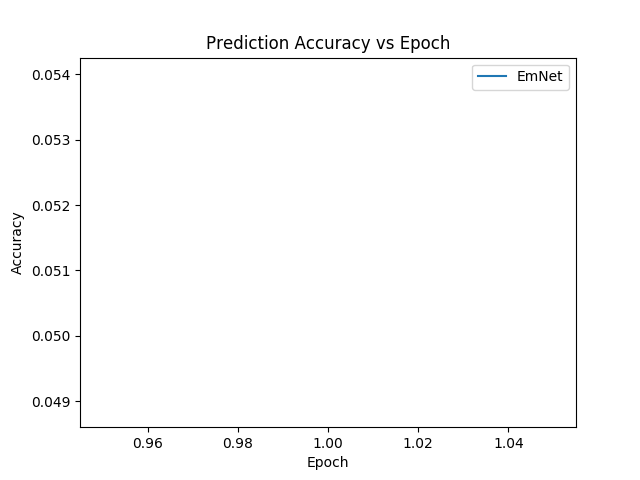
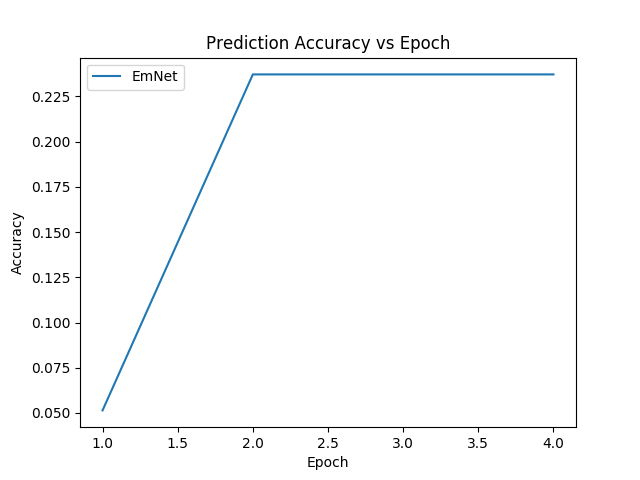
face detect code

diff --git a/code_version1/em_model.py b/code_version1/em_model.py
@@ -15,27 +15,35 @@ class EmNet(nn.Module):
     # classes: list of target classes
     def __init__(self, classes):
         super(EmNet, self).__init__()
-        self.conv1 = nn.Conv2d(3, 64, 5)
-        self.conv2 = nn.Conv2d(64, 64, 5)
-        self.conv3 = nn.Conv2d(64, 128, 4)
-        self.pool = nn.MaxPool2d(3, 2)
-        self.dropout = nn.Dropout(0.3)
-        self.fc1 = nn.Linear(128 * 49 * 49, 3072)
-        self.fc2 = nn.Linear(3072, len(classes))
+        self.features = nn.Sequential(
+            nn.Conv2d(1, 64, kernel_size=5),
+            nn.ReLU(inplace=True),
+            nn.MaxPool2d(kernel_size=3, stride=2),
+            nn.Conv2d(64, 64, kernel_size=5),
+            nn.ReLU(inplace=True),
+            nn.MaxPool2d(kernel_size=3, stride=2),
+            nn.Conv2d(64, 128, kernel_size=4),
+            nn.ReLU(inplace=True),
+            nn.MaxPool2d(kernel_size=3, stride=2),
+        )
+
+        self.classifier = nn.Sequential(
+            nn.Dropout(),
+            nn.Linear(128 * 28 * 28, 3072),
+            nn.ReLU(inplace=True),
+            nn.Linear(3072, len(classes)),
+        )
 
     # Forward process
     # x is a 48x48 2d gray scale image
-    def forward(self, x):
-        x = F.relu(self.conv1(x))
-        x = self.pool(x)
-        x = F.relu(self.conv2(x))
-        x = self.pool(x)
-        x = F.relu(self.conv3(x))
-        # print(x.size())
-        x = x.view(x.size(0), 128 * 49 * 49)
-        x = self.dropout(x)
-        x = F.relu(self.fc1(x))
-        x = F.softmax(self.fc2(x), dim = 1)
+    def forward(self, y):
+        print(y)
+        x = torch.tensor(y)
+        x = self.features(x)
+        print(x.size())
+        x = x.view(x.size(0), 128 * 28 * 28)
+        x = self.classifier(x)
+        print(x)
         return x
 
 class EmModel:
@@ -48,32 +56,26 @@ class EmModel:
 
         # Initialize training parameters
         self.epochs = 50
-        self.batch_size = 1
-        self.learn_rate = 0.01
+        self.batch_size = 50
+        self.learn_rate = 0.1
         self.loss_function = nn.CrossEntropyLoss()
-        self.optimizer = torch.optim.Adam(self.net.parameters(), lr=self.learn_rate)
+        self.optimizer = torch.optim.Adam(self.net.classifier.parameters(), lr=self.learn_rate)
 
         # Load data set
         trainDir = os.path.join(dataDir, 'train')
 
-        normalize = transforms.Normalize(mean=[0.485, 0.456, 0.406], std=[0.229, 0.224, 0.225])
+        normalize = transforms.Normalize((0.5, 0.5, 0.5), (0.5, 0.5, 0.5))
         train_dataset = datasets.ImageFolder(
             trainDir,
             transforms.Compose([
-                transforms.RandomResizedCrop(224),
-                transforms.RandomHorizontalFlip(),
+                transforms.Grayscale(),
+                transforms.CenterCrop((100, 100)),
                 transforms.ToTensor(),
                 normalize,
         ]))
         
-        self.train_loader = torch.utils.data.DataLoader(train_dataset, batch_size = self.batch_size, shuffle=True, num_workers = 1)
+        self.train_loader = torch.utils.data.DataLoader(train_dataset, batch_size = self.batch_size, shuffle=True, num_workers = 0)
         print(train_dataset.classes)
-
-        for i, data in enumerate(self.train_loader, 0):
-            # get the inputs
-            inputs, labels = data
-            print(labels)
-            break
 
         self.check_point_file = os.path.join(modelDir, 'checkpoint.tar')
         if os.path.isfile(self.check_point_file):
@@ -110,7 +112,11 @@ class EmModel:
     # Return the index of predicted class
     def predict(self, inputs):
         outputs = self.net(inputs)
-        label, prob = outputs.max(1)
+        prob, label = torch.max(outputs, 1)
+        '''
+        print('prob', prob)
+        print('label', label)
+        '''
         '''
         # If probability is lower than 0.5
         # Predict it as neutral
@@ -140,8 +146,10 @@ class EmModel:
             for i, data in enumerate(self.train_loader, 0):
                 inputs, labels = data
                 labels = labels.type(torch.FloatTensor)
+                # print(labels)
                 pred = self.predict(inputs)
                 pred = pred.type(torch.FloatTensor)
+                # print(pred)
                 check = torch.eq(pred, labels)
                 check.double()
                 correct += torch.sum(check).item()
@@ -155,6 +163,7 @@ class EmModel:
             print('Training epoch:', epoch)
             running_loss = 0.0
             for i, data in enumerate(self.train_loader, 0):
+                print(self.net.parameters())
                 # get the inputs
                 inputs, labels = data
                 # print(labels)
@@ -178,7 +187,7 @@ class EmModel:
             better = False
             if (acc > self.best_acc):
                 self.best_acc = acc
-                better = Tr/ue
+                better = True
 
             print('Accuracy:', acc)
             self.acc_list.append(acc)

diff --git a/code_version1/face_detect.py b/code_version1/face_detect.py
@@ -1,0 +1,20 @@
+import numpy as np
+import cv2
+import os
+import shutil
+
+if __name__ == '__main__':
+    data_dir = '../data/train'
+    face_dir = '../face_data/train'
+
+    face_cascade = cv2.CascadeClassifier('../classifier/haarcascade_frontalface_default.xml')
+
+    for directory in os.listdir(data_dir):
+        if not os.path.exists(os.path.join(face_dir, directory)):
+            os.mkdir(os.path.join(face_dir, directory))
+        for img in os.listdir(os.path.join(data_dir, directory)):
+            orig = cv2.imread(os.path.join(data_dir, directory, img), 0)
+            faces = face_cascade.detectMultiScale(orig, 1.3, 5)
+            (x, y, w, h) = faces[0]
+            face = orig[x:x+w][y:y+h]
+            cv2.imwrite(os.path.join(face_dir, directory, img), face)
